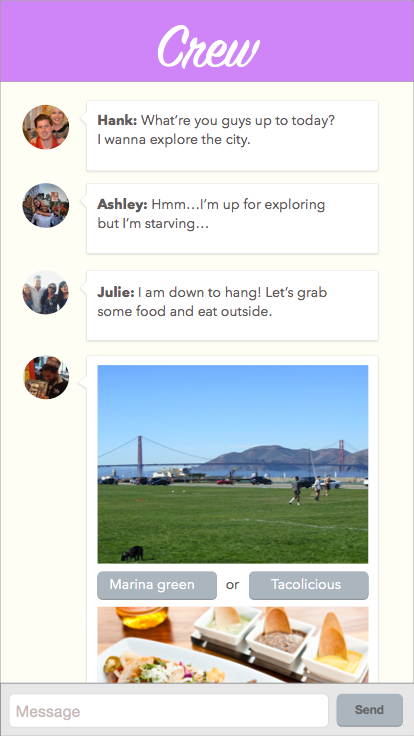
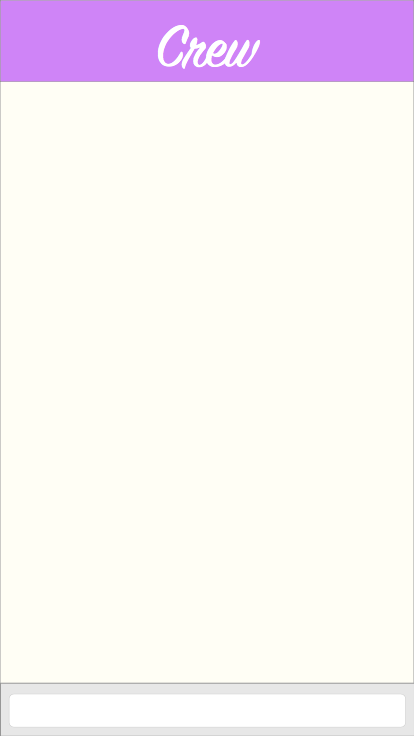
closes #202: fixed scroll issue

diff --git a/app2/www/css/style.css b/app2/www/css/style.css
@@ -90,7 +90,7 @@
   margin-top: 0px;
 }
 
-/* Chat room styles */ 
+/* Chat room styles */
 
 .profile-picture {
   border-radius: 200px;
@@ -116,12 +116,63 @@
 .chat-view {
   position: absolute;
   margin-top: 82.9px;
+  height: 332.62px;
+  width: 414px;
+  background: #FFFEF5;
+  font-family: "Avenir Next";
+  font-size: 18px;
+  border: 0px solid #979797;
+}
+
+.chat-view-keyboard {
+  position: absolute;
+  margin-top: 82.9px;
   height: 603.62px;
   width: 414px;
   background: #FFFEF5;
   font-family: "Avenir Next";
   font-size: 18px;
   border: 0px solid #979797;
+}
+
+.chat-form {
+  position: absolute;
+  background-image: -webkit-image-set(
+    url('../img/chatroom.png') 1x,
+    url('../img/chatroom@2x.png') 2x,
+    url('../img/chatroom@3x.png') 3x
+  );
+  width: 414px;
+  top: 412.75px;
+  height: 52px;
+  background-position: center bottom;
+}
+
+.chat-form-keyboard {
+  position: absolute;
+  background-image: -webkit-image-set(
+    url('../img/chatroom.png') 1x,
+    url('../img/chatroom@2x.png') 2x,
+    url('../img/chatroom@3x.png') 3x
+  );
+  width: 414px;
+  height: 52px;
+  top: 683.75px;
+  background-position: center bottom;
+  border: none;
+}
+
+.chat-input {
+  position: absolute;
+  background-color: transparent;
+  font-family: "Avenir Next";
+  font-size: 1.3em !important;
+  padding: 10px !important;
+  top: 10px;
+  left: 3.85px;
+  height: 34px !important;
+  width: 320px;
+  border: none;
 }
 
 .message-bubble {
@@ -195,19 +246,6 @@
   background-repeat: no-repeat;
 }
 
-.chat-form {
-  position: absolute;
-  background-color: transparent;
-  font-family: "Avenir Next";
-  font-size: 1.3em !important;
-  padding: 10px !important;
-  
-  left: 8.85px;
-  top: 693.75px;
-  height: 34px !important;
-  width: 320px;
-  border: none;
-}
 
 .nav-back {
   position: absolute;

diff --git a/app2/www/js/chat/chat.js b/app2/www/js/chat/chat.js
@@ -11,7 +11,7 @@ angular.module('crewapp.chat', [])
     }
 
     return function() {
-      var now = Math.pow(10, 2) * +new Date()
+      var now = Math.pow(10, 2) * +new Date();
       if (now === last) {
           repeat++;
       } else {
@@ -26,20 +26,26 @@ angular.module('crewapp.chat', [])
   var random = nonce(10);
 
 	$scope.form = {};
-    Sockets.emit('join room', 'potatoes');
-    $scope.name = $localStorage.name
+  Sockets.emit('join room', 'potatoes');
+  var temp = $localStorage.name || 'anon';
+  $scope.name = temp.split(' ')[0] || 'anon';
 
-    $scope.addItem = function() {
-      var message = {name: $localStorage.name, message: $scope.form.itemToAdd, picture: $localStorage.picture}
-	    Sockets.emit('message', message);
+  $scope.addItem = function() {
+    var message = {
+      name: $scope.name,
+      message: $scope.form.itemToAdd,
+      picture: $localStorage.picture
     };
+    Sockets.emit('message', message);
+  };
 
-    Sockets.on('message', function(message) {
-      var key = Date.now() + random();
-	    $scope.messages.push({key: key, message: message.message, name: message.name, picture: message.picture});
-	    $ionicScrollDelegate.scrollBottom();
-    });
+  Sockets.on('message', function(message) {
+    var key = Date.now() + random();
+    $scope.messages.push({key: key, message: message.message, name: message.name, picture: message.picture});
+    $ionicScrollDelegate.scrollBottom();
+    $scope.form.itemToAdd = '';
+  });
 
-    $scope.messages = [];
+  $scope.messages = [];
 
 });

diff --git a/app2/www/js/chat/chat.html b/app2/www/js/chat/chat.html
@@ -2,9 +2,8 @@
   <ion-content class="bg-chat" scroll="false">
   <a href="#/swipe" class="nav-back"></a>
 
-  <div class="chat-view">
+  <div ng-class="isFocused ? 'chat-view' : 'chat-view-keyboard'">
     <ion-content>
-         
         <div class="message-container" ng-repeat="(key, value) in messages">
         <img class="profile-picture" src="{{ value.picture }}" />
           <div class="top-message"></div>
@@ -15,13 +14,13 @@
           </div>
           <div class="bottom-message"></div>
         </div>
-
     </ion-content>
   </div>
-  
-  <form ng-submit="addItem()">
-  	<input type="text" class="chat-form" placeholder="Type in your message..." ng-model="form.itemToAdd"/>
-  	<!-- <input type="submit" /> -->
-  </form>
 
+  <form ng-submit="addItem()" >
+    <div ng-class="isFocused ? 'chat-form' : 'chat-form-keyboard'">
+    	<input type="text" class="chat-input" placeholder="Type in your message..." ng-model="form.itemToAdd" ng-focus="isFocused = true" ng-blur="isFocused = false" />
+    </div>
+  	<!-- <input type="submit" class="chat-submit" /> -->
+  </form>
 </ion-view>
